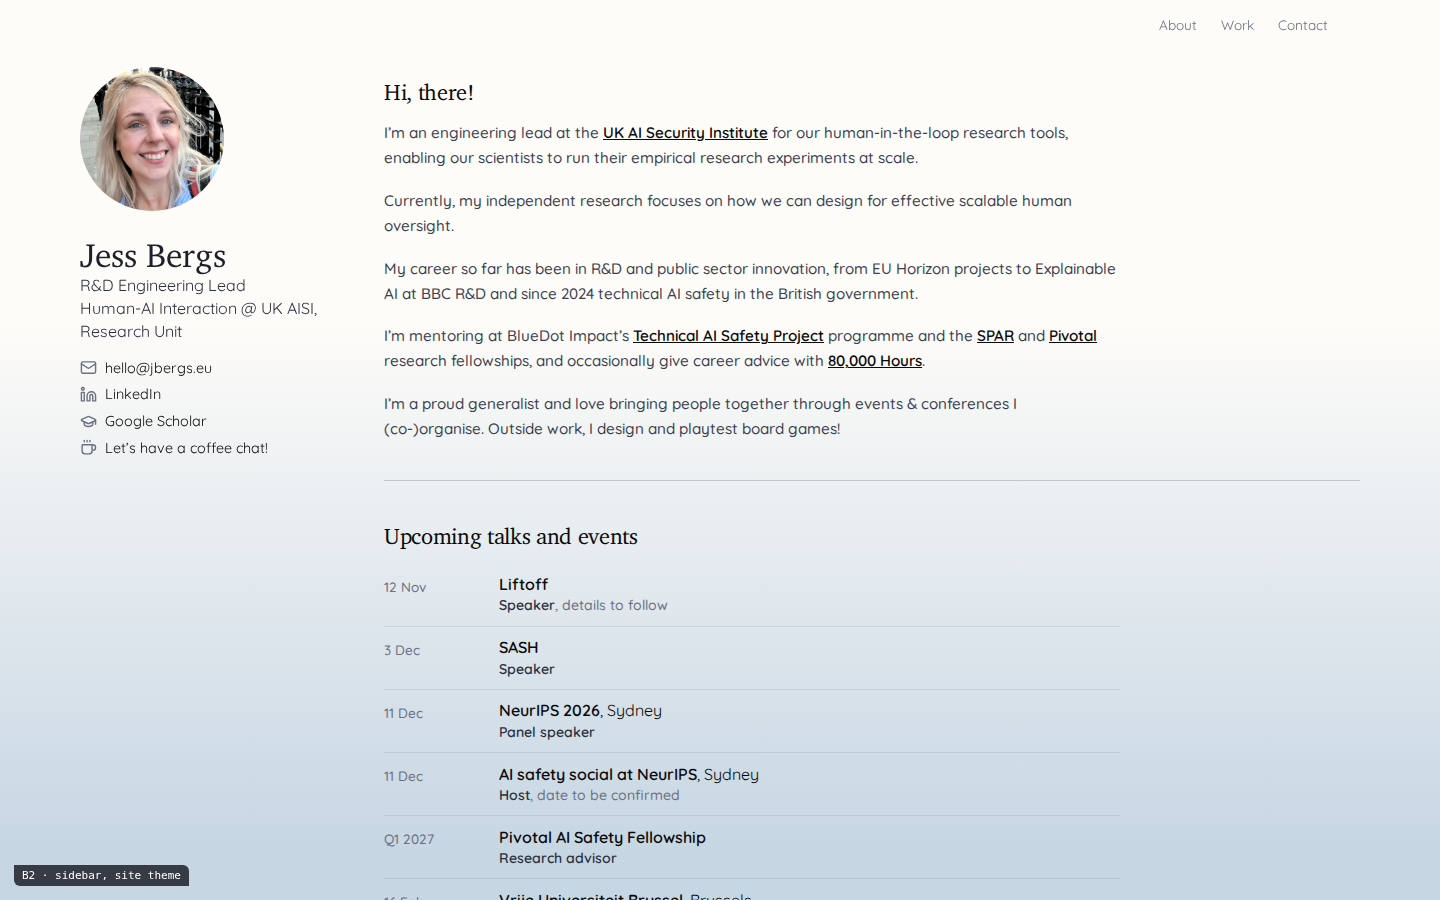
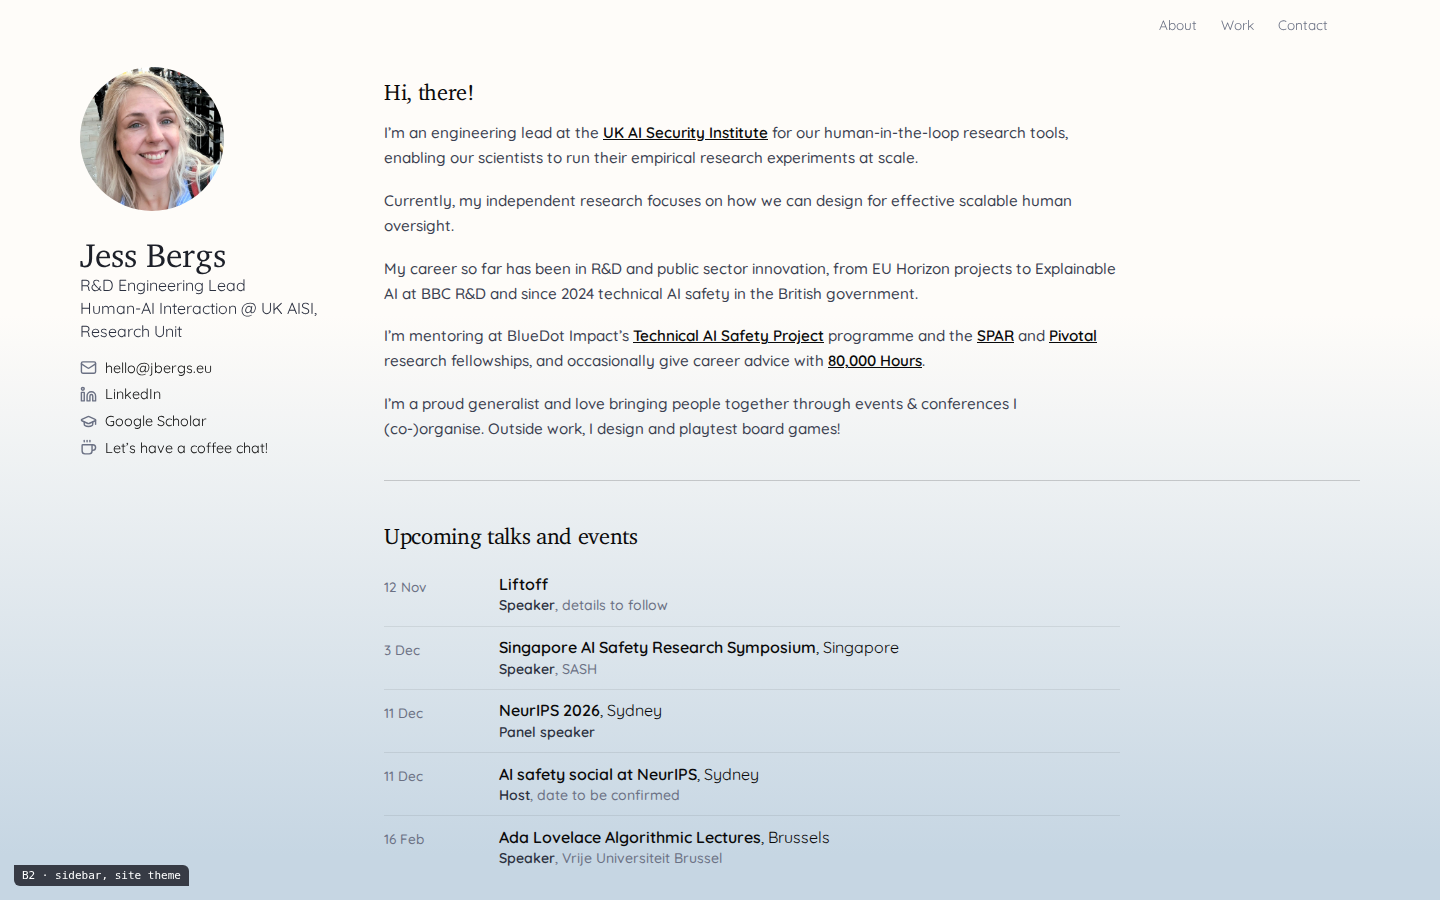
design: Pivotal as a project tile; symposium and lecture series named and linked

diff --git a/docs/design/2026-11-academic-concepts/b2-sidebar-site-theme.html b/docs/design/2026-11-academic-concepts/b2-sidebar-site-theme.html
@@ -106,14 +106,13 @@
   const esc = (s) => String(s).replace(/&/g, '&amp;').replace(/</g, '&lt;');
   const UP = [
     { date: '12 Nov', title: 'Liftoff', role: 'Speaker', place: '', note: 'details to follow', href: '#' },
-    { date: '3 Dec', title: 'SASH', role: 'Speaker', place: '', href: '#' },
+    { date: '3 Dec', title: 'Singapore AI Safety Research Symposium', role: 'Speaker', org: 'SASH', place: 'Singapore', href: 'https://www.aisafety.sg/' },
     { date: '11 Dec', title: 'NeurIPS 2026', role: 'Panel speaker', place: 'Sydney', href: 'https://neurips.cc/' },
     { date: '11 Dec', title: 'AI safety social at NeurIPS', role: 'Host', place: 'Sydney', tbc: true, href: '#' },
-    { date: 'Q1 2027', title: 'Pivotal AI Safety Fellowship', role: 'Research advisor', place: '', href: 'https://www.pivotal-research.org/mentors/profile/jess-bergs' },
-    { date: '16 Feb', title: 'Vrije Universiteit Brussel', role: 'Speaker', place: 'Brussels', href: 'https://www.vub.be/' },
+    { date: '16 Feb', title: 'Ada Lovelace Algorithmic Lectures', role: 'Speaker', org: 'Vrije Universiteit Brussel', place: 'Brussels', href: 'https://data.research.vub.be/ada-lovelace-algorithmic-lectures' },
   ];
   document.getElementById('up').innerHTML = UP.map((u) => `
-    <div class="row"><div class="d">${esc(u.date)}</div><div class="t"><a class="ti" href="${u.href}">${esc(u.title)}</a>${u.place ? ', ' + esc(u.place) : ''}<span class="m"><b>${esc(u.role)}</b>${u.tbc ? ', date to be confirmed' : ''}${u.note ? ', ' + esc(u.note) : ''}</span></div></div>`).join('');
+    <div class="row"><div class="d">${esc(u.date)}</div><div class="t"><a class="ti" href="${u.href}">${esc(u.title)}</a>${u.place ? ', ' + esc(u.place) : ''}<span class="m"><b>${esc(u.role)}</b>${u.org ? ', ' + esc(u.org) : ''}${u.tbc ? ', date to be confirmed' : ''}${u.note ? ', ' + esc(u.note) : ''}</span></div></div>`).join('');
   document.getElementById('tiles').innerHTML = TILE_PROJECTS.map((p) => `
     <a class="project-card" href="${p.link || '#'}" target="_blank" rel="noopener noreferrer">
       <div class="project-card__media"><img src="${p.image}" alt="" loading="lazy"></div>

diff --git a/docs/design/2026-11-academic-concepts/tiles.js b/docs/design/2026-11-academic-concepts/tiles.js
@@ -1,6 +1,17 @@
 /* Original tile copy from src/data/projects.json, split into projects (tiles) and past talks (rows). Role suffixes are dropped from talk titles because the row carries the role. */
 window.TILE_PROJECTS = [
  {
+  "title": "Pivotal Research AI Safety Fellowship – Mentor",
+  "description": "Co-mentoring Pivotal Research's Q1 2027 AI Safety Fellowship. Current agent harness design is not human-centric, so our fellows will study effective oversight mechanisms for agents in automated R&D and AI control.",
+  "link": "https://www.pivotal-research.org/mentors/profile/jess-bergs",
+  "categories": [
+   "Mentorship",
+   "AI Security",
+   "Scalable Oversight"
+  ],
+  "image": "../../../public/images/pivotal-ais-fellowship-2027.jpg"
+ },
+ {
   "title": "AI and Political Knowledge – PNAS Nexus",
   "description": "UK AISI survey (n = 2,499) and randomised trials (n = 2,858) around the 2024 UK election. 13% of eligible voters used AI chatbots for political information, and chatbots raised political knowledge as effectively as internet search.",
   "link": "https://doi.org/10.1093/pnasnexus/pgag305",
